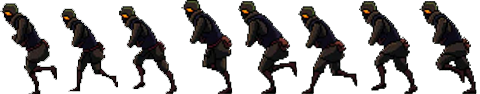
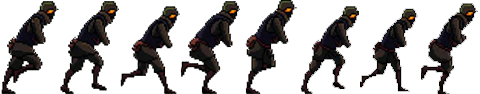
Pataisyta score sistema, atstatyti aktyvus sprite.

diff --git a/laravel_failai/public/index.js b/laravel_failai/public/index.js
@@ -3,8 +3,8 @@ const c = canvas.getContext('2d')
 canvas.width = 1000
 canvas.height = 1000
 const scaledCanvas = {
-    width: canvas.width ,
-    height: canvas.height ,
+    width: canvas.width,
+    height: canvas.height,
 }
 const floorCollisions2D = []
 for (let i = 0; i < floorCollisions.length; i += 800) {
@@ -46,7 +46,7 @@ platformCollisions2D.forEach((row, y) => {
     })
 })
 class Projectile {
-    constructor({ position, velocity, camerabox }) {
+    constructor({position, velocity, camerabox}) {
         this.position = position;
         this.velocity = velocity;
         this.radius = 3;
@@ -86,7 +86,6 @@ class Projectile {
 }
 const projectiles = []
 const gravity = 0.1
-
 async function createPlayer(x, y, spriteId) {
     const response = await axios.get(`/sprite/${spriteId}`);
     const data = response.data.data;
@@ -112,17 +111,20 @@ async function createPlayer(x, y, spriteId) {
 
     return player;
 }
-// Usage example
 let player;
-
 async function main() {
-    const player1 = await createPlayer(100, 700, '1');
+    // get the sprite ID for the authenticated user
+    const spriteId = await axios.get('/user/sprite-id').then(response => response.data.sprite_id);
+
+    // call createPlayer with the sprite ID
+    const player1 = await createPlayer(100, 700, spriteId);
     player = player1;
     // rest of your code goes here
 }
-
-
-main().then(() =>{
+async function updateSpriteId(spriteId) {
+    await axios.put('/user/sprite-id', {sprite_id: spriteId});
+}
+main().then(() => {
     function createEnemy(x, y, imageSrc, frameRate) {
         return new Enemy({
             position: {
@@ -135,9 +137,9 @@ main().then(() =>{
             frameRate,
         });
     }
-    const enemy1 = createEnemy(300, 700, '../img/soldier/idle.png', 8,200);
-    const enemy2 = createEnemy(600, 700, '../img/soldier/idle.png', 8,200);
-    const enemies = [ enemy1, enemy2,];
+    const enemy1 = createEnemy(300, 700, '../img/soldier/idle.png', 8, 200);
+    const enemy2 = createEnemy(600, 700, '../img/soldier/idle.png', 8, 200);
+    const enemies = [enemy1, enemy2,];
     const keys = {
         d: {
             pressed: false,
@@ -161,7 +163,6 @@ main().then(() =>{
         },
     }
     let score = 0;
-
     function animate() {
         window.requestAnimationFrame(animate)
         c.fillStyle = 'white'
@@ -218,23 +219,23 @@ main().then(() =>{
             player.switchSprite('Run')
             player.velocity.x = 2
             player.lastDirection = 'right'
-            player.shouldPanCameraToTheLeft({ canvas, camera })
+            player.shouldPanCameraToTheLeft({canvas, camera})
         } else if (keys.a.pressed) {
             player.switchSprite('RunLeft')
             player.velocity.x = -2
             player.lastDirection = 'left'
-            player.shouldPanCameraToTheRight({ canvas, camera })
+            player.shouldPanCameraToTheRight({canvas, camera})
         } else if (player.velocity.y === 0) {
             if (player.lastDirection === 'right') player.switchSprite('Idle')
             else player.switchSprite('IdleLeft')
         }
 
         if (player.velocity.y < 0) {
-            player.shouldPanCameraDown({ camera, canvas })
+            player.shouldPanCameraDown({camera, canvas})
             if (player.lastDirection === 'right') player.switchSprite('Jump')
             else player.switchSprite('JumpLeft')
         } else if (player.velocity.y > 0) {
-            player.shouldPanCameraUp({ camera, canvas })
+            player.shouldPanCameraUp({camera, canvas})
             if (player.lastDirection === 'right') player.switchSprite('Fall')
             else player.switchSprite('FallLeft')
         }
@@ -245,7 +246,6 @@ main().then(() =>{
         c.restore()
     }
     animate()
-
     window.addEventListener('keydown', (event) => {
         switch (event.key) {
             case 'd':
@@ -258,10 +258,10 @@ main().then(() =>{
                 player.velocity.y = -4
                 break
             case ' ':
-                console.log('space')
-                projectiles.push (new Projectile({
-                    position: { x: player.position.x + player.width, y: player.position.y +50 },
-                    velocity: { x:10, y: 0 },
+                /*console.log('space')*/
+                projectiles.push(new Projectile({
+                    position: {x: player.position.x + player.width, y: player.position.y + 50},
+                    velocity: {x: 10, y: 0},
                     camerabox: player.camerabox, // pass the camerabox to the constructor
                 }))
                 break
@@ -277,4 +277,27 @@ main().then(() =>{
                 break
         }
     })
-});
+    const csrfToken = document.querySelector('meta[name="csrf-token"]').getAttribute('content');
+    window.addEventListener('keydown', function (event) {
+        if (event.key === 'l') {
+            // Send a POST request to the score endpoint with the CSRF token
+            fetch('/score', {
+                method: 'POST',
+                headers: {
+                    'Content-Type': 'application/json',
+                    'X-CSRF-TOKEN': csrfToken
+                },
+                body: JSON.stringify({score: score})
+            })
+                .then(response => response.json())
+                .then(data => {
+                    console.log(data);
+                    // redirect to localhost:3000 after the score is updated
+                    window.location.href = 'http://localhost';
+                })
+                .catch(error => {
+                    // handle error
+                });
+        }
+    });
+})

diff --git a/laravel_failai/public/js/classes/Player.js b/laravel_failai/public/js/classes/Player.js
@@ -9,8 +9,8 @@ class Player extends Sprite {
                     animations,
                 }) {
         super({ imageSrc, frameRate, scale });
-        console.log('imageSrc:', imageSrc);
-        console.log('animations:', animations);
+        /*console.log('imageSrc:', imageSrc);
+        console.log('animations:', animations);*/
         this.position = position
         this.velocity = {
             x: 0,
@@ -29,8 +29,8 @@ class Player extends Sprite {
         }
 
         this.animations = animations
-        debugger;
-        console.log('this.animations:', this.animations)
+        /*debugger;*/
+        /*console.log('this.animations:', this.animations)*/
         this.lastDirection = 'right'
 
         for (let key in this.animations) {
@@ -51,7 +51,7 @@ class Player extends Sprite {
     }
 
     switchSprite(key) {
-        console.log('this.animations:', this.animations);
+        /*console.log('this.animations:', this.animations);*/
         if (this.image === this.animations[key].image || !this.loaded) return
 
         this.currentFrame = 0
@@ -128,7 +128,7 @@ class Player extends Sprite {
     }
 
     update() {
-        console.log('update method called');
+        /*console.log('update method called');*/
         this.updateFrames()
         this.updateHitbox()
 

diff --git a/laravel_failai/routes/web.php b/laravel_failai/routes/web.php
@@ -3,28 +3,33 @@
 use App\Http\Controllers\ProfileController;
 use App\Http\Controllers\ScoreController;
 use App\Http\Controllers\SpriteController;
+use App\Http\Controllers\UserController;
+
+use Illuminate\Http\Request;
 use Illuminate\Support\Facades\DB;
 use Illuminate\Support\Facades\Route;
 
+Route::middleware('auth')->post('/change-sprite', [ProfileController::class, 'changeSprite'])->name('change.sprite');
+Route::middleware('auth')->get('/change-sprite', [ProfileController::class, 'showChangeSpriteForm'])->name('change.sprite.form');
+Route::middleware('auth')->get('/user/sprite-id', function (Request $request) {
+    $user = $request->user();
+    if (!$user) {
+        return response()->json(['message' => 'User not authenticated']);
+    }
 
+    $spriteId = $user->sprite_id;
+    if (!$spriteId) {
+        return response()->json(['message' => 'User does not have a sprite ID']);
+    }
 
+    return response()->json(['sprite_id' => $spriteId]);
+});
 
 Route::get('/', function () {return view('welcome');})->name('homepage');
-
 Route::get('/game', function () {return view('game');})->name('game');
-
-Route::get('/dashboard', function () {
-    return view('dashboard');
-})->middleware(['auth', 'verified'])->name('dashboard');
-
-
-
-
-/*Route::get('/sprite', function () {});*/
+Route::get('/dashboard', function () {return view('dashboard');})->middleware(['auth', 'verified'])->name('dashboard');
 Route::get('/sprite/{sprite}', [SpriteController::class, 'index'])->name('score');
 Route::post('/score', [ScoreController::class, 'store'])->name('score.store');
-
-
 
 Route::middleware('auth')->group(function () {
     Route::get('/profile', [ProfileController::class, 'edit'])->name('profile.edit');

diff --git a/laravel_failai/app/Http/Controllers/ProfileController.php b/laravel_failai/app/Http/Controllers/ProfileController.php
@@ -3,6 +3,7 @@
 namespace App\Http\Controllers;
 
 use App\Http\Requests\ProfileUpdateRequest;
+use App\Models\Sprite;
 use Illuminate\Http\RedirectResponse;
 use Illuminate\Http\Request;
 use Illuminate\Support\Facades\Auth;
@@ -56,5 +57,31 @@ class ProfileController extends Controller
         $request->session()->regenerateToken();
 
         return Redirect::to('/');
+    }
+
+    public function changeSprite(Request $request)
+    {
+        $user = $request->user();
+        $spriteId = $request->input('sprite_id');
+
+        // Check if the user has enough score to change sprite
+        $score = $user->scores()->sum('score');
+        if ($score < 200) {
+            return redirect()->back()->with('error', 'You do not have enough score to change sprite');
+        }
+
+        // Update the user's sprite_id
+        $user->sprite_id = $spriteId;
+        $user->save();
+
+        // Subtract 100 points from the user's score
+        $user->scores()->create(['score' => -100]);
+
+        return redirect()->back()->with('success', 'Sprite changed successfully');
+    }
+    public function showChangeSpriteForm()
+    {
+        $sprites = Sprite::all();
+        return view('change_sprite', compact('sprites'));
     }
 }

diff --git a/laravel_failai/routes/api.php b/laravel_failai/routes/api.php
@@ -1,18 +1,8 @@
 <?php
 
+use App\Http\Controllers\UserController;
 use Illuminate\Http\Request;
 use Illuminate\Support\Facades\Route;
-
-/*
-|--------------------------------------------------------------------------
-| API Routes
-|--------------------------------------------------------------------------
-|
-| Here is where you can register API routes for your application. These
-| routes are loaded by the RouteServiceProvider and all of them will
-| be assigned to the "api" middleware group. Make something great!
-|
-*/
 
 Route::middleware('auth:sanctum')->get('/user', function (Request $request) {
     return $request->user();

diff --git a/laravel_failai/app/Http/Controllers/UserController.php b/laravel_failai/app/Http/Controllers/UserController.php
@@ -1,0 +1,18 @@
+<?php
+
+namespace App\Http\Controllers;
+
+use Illuminate\Http\Request;
+use App\Models\User;
+
+class UserController extends Controller
+{
+    public function updateSpriteId(Request $request)
+    {
+        $user = auth()->user();
+        $spriteId = $request->input('sprite_id');
+        $user->update(['sprite_id' => $spriteId]);
+
+        return response()->json(['message' => 'Sprite ID updated successfully']);
+    }
+}

diff --git a/laravel_failai/resources/views/change_sprite.blade.php b/laravel_failai/resources/views/change_sprite.blade.php
@@ -1,0 +1,10 @@
+<form method="POST" action="{{ route('change.sprite') }}">
+    @csrf
+    <label for="sprite_id">Select your new sprite:</label>
+    <select name="sprite_id" id="sprite_id">
+        @foreach ($sprites as $sprite)
+            <option value="{{ $sprite->id }}">{{ $sprite->description }}</option>
+        @endforeach
+    </select>
+    <button type="submit">Change Sprite</button>
+</form>

diff --git a/laravel_failai/app/Http/Controllers/SpriteController.php b/laravel_failai/app/Http/Controllers/SpriteController.php
@@ -4,6 +4,7 @@ namespace App\Http\Controllers;
 
 use App\Http\Resources\SpriteResource;
 use App\Models\Sprite;
+use Illuminate\Http\Request;
 
 class SpriteController extends Controller
 {
@@ -12,6 +13,7 @@ class SpriteController extends Controller
         $sprite = Sprite::find($id);
         return new SpriteResource($sprite);
     }
+
 }
 /*class SpriteController extends Controller
 {

diff --git a/laravel_failai/resources/views/layouts/header.blade.php b/laravel_failai/resources/views/layouts/header.blade.php
@@ -25,6 +25,9 @@
         <li>
             <a href="{{route('homepage')}}">Homepage</a>
         </li>
+        <li>
+            <a href="{{ route('change.sprite.form') }}">Change Sprite</a>
+        </li>
     </ul>
 </header>
 
